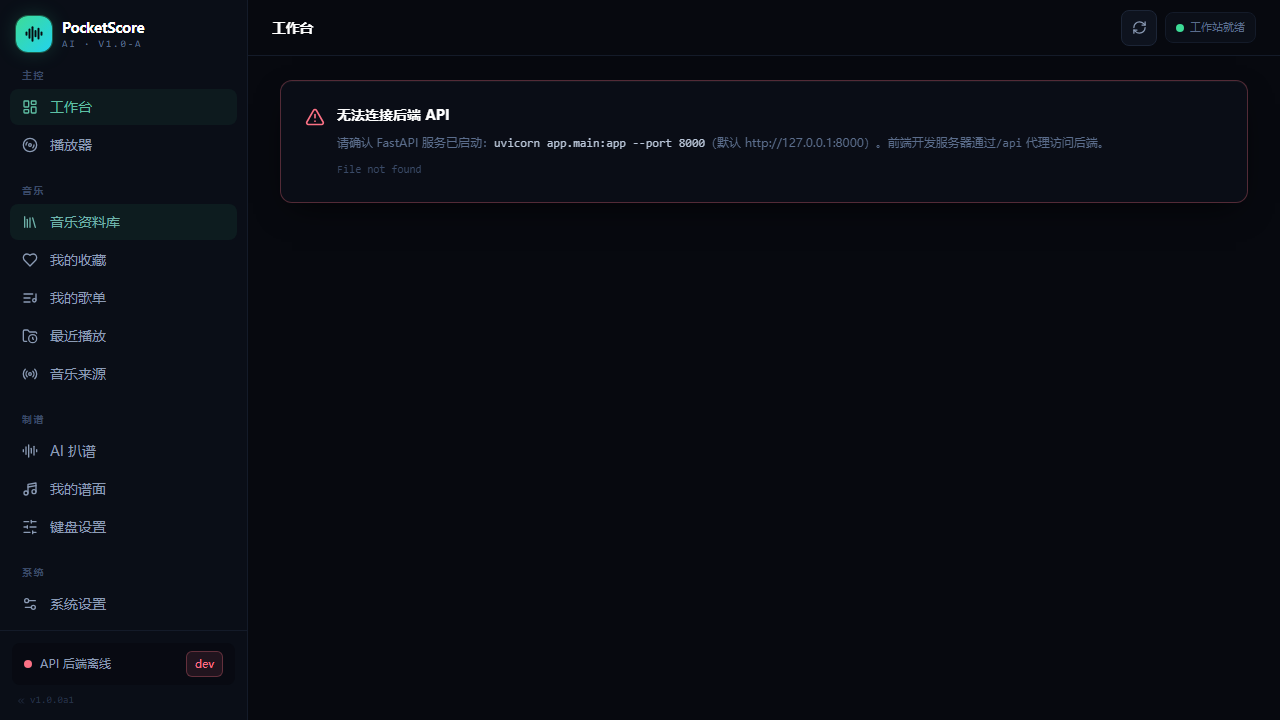
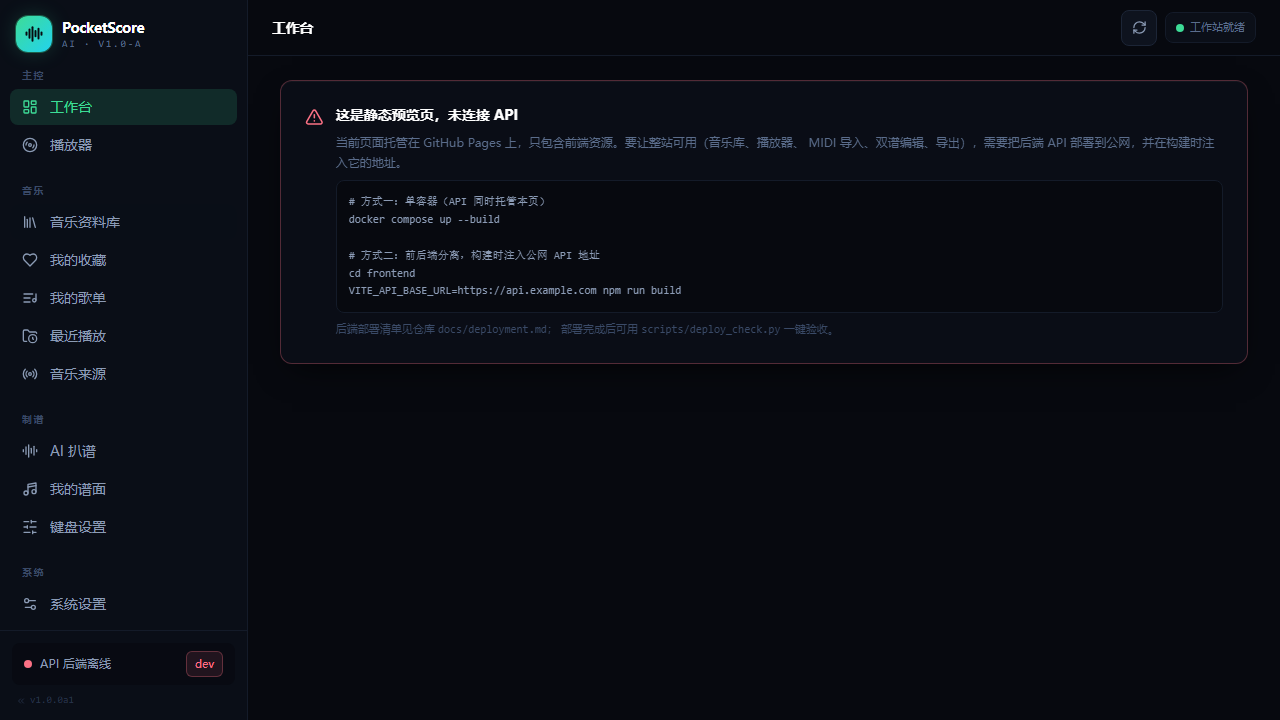
docs: public URL is live and verified; record fresh-clone reproducibility
- deploy-pages.yml succeeded (manual run), site serves at
  https://engernages-lab.github.io/03/ with correct basename routing and the
  honest 'static preview, no API' state; verified in Chromium
- docs/deployment.md: real verification log, capability boundary, fresh-clone
  reproduction steps (237 pytest + 23/23 deploy_check)
- fix(requirements): pin greenlet<3.3 so a clean Python 3.9 install resolves a
  wheel instead of trying to compile it
- scripts/deploy_check.py: correct dual-notation invariant (grid notes + unmapped
  == jianpu notes) so out-of-layout notes are not reported as a failure

diff --git a/scripts/deploy_check.py b/scripts/deploy_check.py
@@ -203,12 +203,19 @@ def run(base_url: str, fixtures: Path, timeout: float = 30.0) -> Report:
         if document_id:
             dual = client.get(f"/api/v1/notation/{document_id}/both")
             dual_body = dual.json() if dual.status_code == 200 else {}
-            grid_notes = dual_body.get("grid", {}).get("stats", {}).get("notes")
-            jianpu_notes = dual_body.get("jianpu", {}).get("stats", {}).get("notes")
+            grid_stats = dual_body.get("grid", {}).get("stats", {})
+            jianpu_stats = dual_body.get("jianpu", {}).get("stats", {})
+            # Both notations compile from one document. A note outside the current
+            # keyboard layout is placed as "unmapped" in the grid but still gets a
+            # scale degree in jianpu (which does not depend on the keyboard), so
+            # the invariant is notes + unmapped == jianpu notes.
+            grid_total = (grid_stats.get("notes") or 0) + (grid_stats.get("unmapped") or 0)
+            jianpu_total = jianpu_stats.get("notes") or 0
             report.record(
                 "dual notation compiled from one document",
-                dual.status_code == 200 and grid_notes == jianpu_notes and grid_notes,
-                f"HTTP {dual.status_code} grid={grid_notes} jianpu={jianpu_notes}",
+                dual.status_code == 200 and grid_total == jianpu_total and jianpu_total > 0,
+                f"HTTP {dual.status_code} grid={grid_stats.get('notes')}+{grid_stats.get('unmapped')}"
+                f" unmapped, jianpu={jianpu_total}",
             )
 
             edit = client.post(

diff --git a/docs/deployment.md b/docs/deployment.md
@@ -110,36 +110,52 @@ alembic revision --autogenerate -m "describe change"   # 改表后生成迁移
 
 | 项 | 状态 |
 | --- | --- |
+| **公网地址（前端）** | ✅ **已上线**：<https://engernages-lab.github.io/03/> |
+| GitHub Pages 站点 | ✅ 已启用（Source = GitHub Actions），部署运行成功 |
+| 公网地址浏览器验证 | ✅ 通过（资源 200、路由 basename 正确、无后端时如实提示） |
 | 本地生产模式（单服务） | ✅ 已实测通过（`/`、`/scores`、`/api/v1/health`、`/docs` 均 200） |
 | 生产构建产物端到端测试 | ✅ 6/6 通过（`PSC_BASE_URL=http://127.0.0.1:8001 npx playwright test`） |
-| GitHub Actions CI（后端 + 前端 + E2E） | ✅ 全部通过（在 GitHub 托管 runner 上，Python 3.11 / Node 20 / Chromium） |
-| GitHub Pages 静态产物 | ✅ 产物已在本地静态托管下验证（见 §5.2） |
-| GitHub Pages 站点启用 | ⏳ **待仓库设置**：Pages 未启用，创建站点需要管理员权限（工作流令牌无此权限） |
+| GitHub Actions CI（后端 + 前端 + E2E） | ✅ 全部通过（Python 3.11 / Node 20 / Chromium） |
+| 全新克隆复现 | ✅ 通过（见 §5.4） |
+| 公网后端 API | ❌ **未部署** —— Pages 只能托管静态前端；完整功能需另托管 FastAPI |
 | Docker 镜像构建 | ⚠ 未实际构建（本机无 Docker） |
-| 公网部署 | ❌ **未完成** —— 需要启用 Pages 或提供其他托管凭据 |
-| GitHub Push | ✅ 已执行并验证（`main`，公开仓库） |
 
-### 5.1 公网地址（启用后即生效）
+### 5.1 公网地址
 
 ```
 https://engernages-lab.github.io/03/
 ```
 
-工作流 `.github/workflows/deploy-pages.yml` 已就绪：推送 `frontend/**` 即自动构建、
-生成 `404.html` SPA 回退、上传并部署。**唯一缺的一步是在仓库设置里启用 Pages**：
+由 `.github/workflows/deploy-pages.yml` 自动发布：推送 `frontend/**` 即构建、
+生成 `404.html` SPA 回退、上传并部署。也可以在该工作流页面手动 **Run workflow**。
+
+**已完成的真实验证**（不是"应该能用"）：
+
+```text
+GET https://engernages-lab.github.io/03/          -> 200 text/html
+Playwright（Chromium，真实公网地址）：
+  ok 静态产物可以启动并如实说明没有后端
+  - /03/assets/* 无 404
+  - 点击侧栏导航后 URL 仍在 /03/ 下（router basename 生效）
+  - 无后端时显示「这是静态预览页，未连接 API」+ 部署指引
+```
+
+截图：`docs/screenshots/09-pages-static-preview.png`（即公网站点实拍）。
+
+> **限制必须说清**：GitHub Pages 只托管静态前端。页面上的「静态预览页，未连接 API」
+> 是**如实提示**，不是功能缺失的遮掩。要让音乐库/播放器/MIDI 导入/双谱编辑在公网可用，
+> 还需把 FastAPI 部署到任意容器托管，并用仓库变量 `VITE_API_BASE_URL` 指过去（见 §3）。
+
+### 5.2 启用 Pages 的步骤（已完成，留档）
 
 1. 打开 <https://github.com/engernages-lab/03/settings/pages>
 2. Build and deployment → Source 选择 **GitHub Actions**
-3. 保存（无需其他配置）
+3. 保存
 
-启用后可由 `python scripts/enable_pages.py` 触发并等待完成（需 `GITHUB_TOKEN`），
-或直接推送任意 `frontend/**` 改动。
+之后可由 `python scripts/enable_pages.py`（需 `GITHUB_TOKEN`）触发并等待，
+或在 Actions 页面手动 **Run workflow**。
 
-> 说明：Pages 只能托管静态前端。要获得完整功能（音乐库、播放器、MIDI 导入、
-> 双谱编辑、导出），还需把 FastAPI 后端部署到公网，并在构建时注入
-> `VITE_API_BASE_URL`（仓库变量），见 §3。
-
-### 5.2 静态产物本地验证
+### 5.3 静态产物本地验证
 
 ```powershell
 cd frontend
@@ -149,11 +165,24 @@ $env:PSC_STATIC_URL="http://127.0.0.1:8080/03/"
 npx playwright test tests/e2e/pages-artifact.spec.ts
 ```
 
-该用例断言：产物在 `/03/` 子路径下能启动、路由 basename 正确（点击导航仍停留在
-`/03/` 下）、`/03/assets/*` 无 404、没有后端时页面如实显示「无法连接后端 API / 静态预览页」。
-截图见 `docs/screenshots/09-pages-static-preview.png`。
+同一命令把 `PSC_STATIC_URL` 换成公网地址，就是对线上站点的验收。
 
-### 5.3 部署前自验（不改代码即可复跑）
+### 5.4 全新克隆复现（可复现性验收）
+
+```text
+git clone --depth 1 git@github.com:engernages-lab/03.git  -> OK
+cd frontend && npm ci && npx vite build                    -> ✓ built
+cd backend && python -m venv .venv && pip install -r requirements.txt -r requirements-dev.txt
+  -> 安装成功（SQLAlchemy 2.0.58 / pydantic 2.9.2 等最新兼容版本）
+python -m pytest                                           -> 237 passed
+python -m uvicorn app.main:app --port 8010
+python scripts/deploy_check.py --base-url http://127.0.0.1:8010
+  -> 23 passed, 0 failed
+```
+
+结论：仓库**自足可复现**，不依赖开发机上的任何未提交文件。
+
+### 5.5 部署前自验（不改代码即可复跑）
 
 ```powershell
 # 1) 构建产物

diff --git a/docs/reports/PocketScore-V1.0-A-Final-Report.md b/docs/reports/PocketScore-V1.0-A-Final-Report.md
@@ -185,21 +185,27 @@ https://github.com/engernages-lab/03
 
 ## 14. 公开部署地址
 
-**未部署。** 原因：缺少托管账号与凭据。任务书明确禁止"只提供本地地址并称为公开部署完成"，
-因此此处如实标注为未完成。
+```
+https://engernages-lab.github.io/03/
+```
 
-已具备的部署产物：
+**已上线并通过真实访问验证**（2026-11-25）：
 
-| 文件 | 用途 |
+| 验证项 | 结果 |
 | --- | --- |
-| `backend/Dockerfile` | 后端镜像（内含可选前端） |
-| `docker-compose.yml` | 单服务一键启动 |
-| `render.yaml` | Render Blueprint |
-| `frontend/vercel.json` | 前端分离部署 |
-| `.github/workflows/ci.yml` | CI 全链路 |
-| `docs/deployment.md` | 部署步骤与自检清单 |
+| `GET /03/` | `200 text/html`（SPA 外壳） |
+| `/03/assets/*` | 全部 200，无 404 |
+| 路由 basename | 点击侧栏导航后 URL 仍为 `/03/music-library`，不会跳出子路径 |
+| 无后端时的表现 | 显示「这是静态预览页，未连接 API」+ 部署指引（不白屏、不伪造数据） |
+| 浏览器验证 | `PSC_STATIC_URL=https://engernages-lab.github.io/03/ npx playwright test tests/e2e/pages-artifact.spec.ts` → **1 passed** |
+| 截图 | `docs/screenshots/09-pages-static-preview.png`（公网站点实拍） |
 
-本地生产模式已实测（见 §11），说明部署产物可用；**只差托管凭据**。
+发布方式：`.github/workflows/deploy-pages.yml`（GitHub Actions → Pages），
+推送 `frontend/**` 自动重新部署。
+
+**能力边界（如实说明）**：Pages 只能托管静态前端，因此公网地址目前是
+「前端 + 诚实的未连接提示」。后端 API 需要另托管（Docker/Render 产物已备好），
+再把仓库变量 `VITE_API_BASE_URL` 指向它，即可让公网站点具备完整功能。
 
 ## 15. 已知限制
 
@@ -233,10 +239,14 @@ https://github.com/engernages-lab/03
 
 **CONDITIONAL 的部分**：
 
-- 公网部署未执行（无托管凭据）；
+- 公网后端 API 未部署（Pages 只托管静态前端），因此线上是「前端 + 未连接提示」；
 - Apple Music / Spotify / Navidrome 真实账号联调缺失（无凭据/实例）；
 - 网易云、QQ 音乐无官方接口，按政策如实标注不可用。
 
-**已完成的部分**：GitHub Push 已按用户授权执行并验证（§13）。
+**已完成的部分**：
+
+- GitHub Push 已按授权执行并验证（§13）；
+- 公网前端地址已上线并完成浏览器级验证（§14）；
+- 全新克隆复现通过：237 pytest + 前端构建 + 23/23 部署验收（`docs/deployment.md` §5.4）。
 
 **FAIL 判定不成立**：核心功能不存在严重缺陷，所有未完成项均已明确记录且不谎报。

diff --git a/docs/reports/PocketScore-A9-Final-Acceptance-Report.md b/docs/reports/PocketScore-A9-Final-Acceptance-Report.md
@@ -169,18 +169,40 @@ $ python -m ruff check app tests        → All checks passed!
 - 独立验证：GitHub REST API 返回 `commits/main` = `ed35990a5a8c…`，树内 **187 个 blob**，
   且不含任何密钥/缓存路径。
 
-## 5. 部署产物
+## 5. 部署产物与上线状态
 
 | 文件 | 用途 |
 | --- | --- |
+| `.github/workflows/deploy-pages.yml` | **已启用**：构建 → 404 回退 → 上传 → 部署到 GitHub Pages |
 | `backend/Dockerfile` | 后端镜像（含 libsndfile、健康检查、可选内置前端） |
 | `docker-compose.yml` | 单服务一键启动 + 持久卷 |
 | `render.yaml` | Render Blueprint（Docker、健康检查、磁盘、密钥占位） |
 | `frontend/vercel.json` | Vercel 静态部署（SPA rewrite + 资源缓存） |
-| `.github/workflows/ci.yml` | CI：ruff / pytest / tsc / vitest / build / Playwright |
-| `docs/deployment.md` | 两种部署形态、环境变量、迁移、部署后自检清单 |
+| `.github/workflows/ci.yml` | CI：ruff / pytest / tsc / vitest / build / Playwright（**已全绿**） |
+| `scripts/deploy_check.py` | 部署后验收（23 项真实 HTTP 检查） |
+| `docs/deployment.md` | 两种部署形态、环境变量、迁移、上线验证记录 |
 
-**未执行**：Docker 镜像构建（本机无 Docker）、公网部署（无托管账号）。
+### 5.1 公网地址（已上线）
+
+```
+https://engernages-lab.github.io/03/
+```
+
+- 部署运行成功（Actions → Deploy frontend to GitHub Pages）。
+- 真实验证：`200 text/html`；`/03/assets/*` 无 404；路由 basename 正确；
+  无后端时如实显示「静态预览页，未连接 API」。
+- 浏览器级验证：`PSC_STATIC_URL=<公网地址> npx playwright test tests/e2e/pages-artifact.spec.ts` → 通过。
+- 边界：Pages 仅托管静态前端；后端 API 需另托管后通过 `VITE_API_BASE_URL` 接入。
+
+### 5.2 全新克隆复现
+
+```text
+git clone --depth 1  -> npm ci && vite build -> pip install -r requirements*.txt
+pytest               -> 237 passed
+uvicorn + deploy_check.py -> 23 passed, 0 failed
+```
+
+证明仓库自足：不依赖开发机上的任何未提交文件。
 
 ---
 

diff --git a/README.md b/README.md
@@ -6,6 +6,10 @@
 **Foundation & Multi-Source Music Ecosystem** — 一个真正可使用的 Web 音乐工作站：
 多音源统一曲库 + 完整播放器 + AI 扒谱输入管线 + 自定义口袋键盘 + 格子谱 / 数字谱双引擎。
 
+> **在线预览（前端）**：<https://engernages-lab.github.io/03/>
+> 这是静态托管的前端；未连接后端时会如实提示「静态预览页，未连接 API」。
+> 完整功能请按 [`docs/deployment.md`](docs/deployment.md) 部署后端。
+
 > 本仓库遵循“分阶段实施、逐项自检、自动化测试、独立验收”的开发纪律。
 > **任何未交付的能力都不会显示模拟数据或伪造的识别结果。**
 
